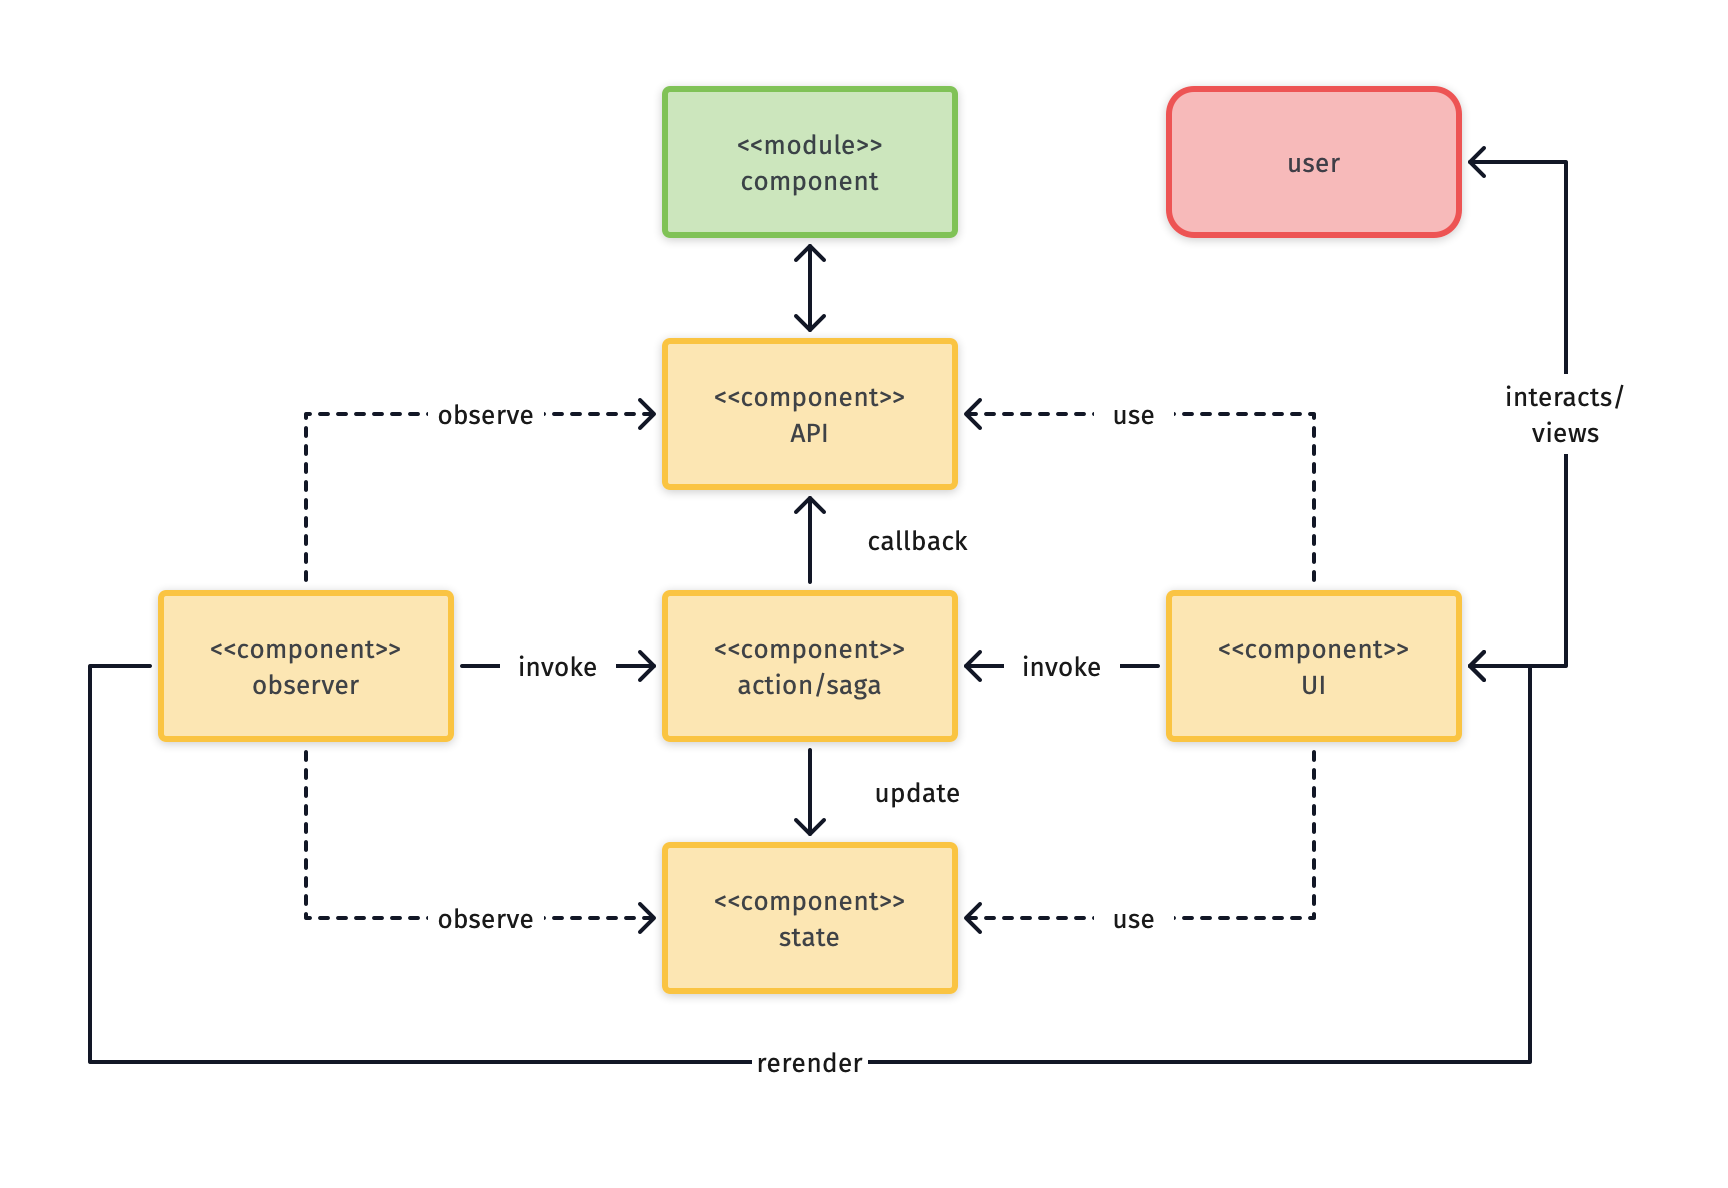
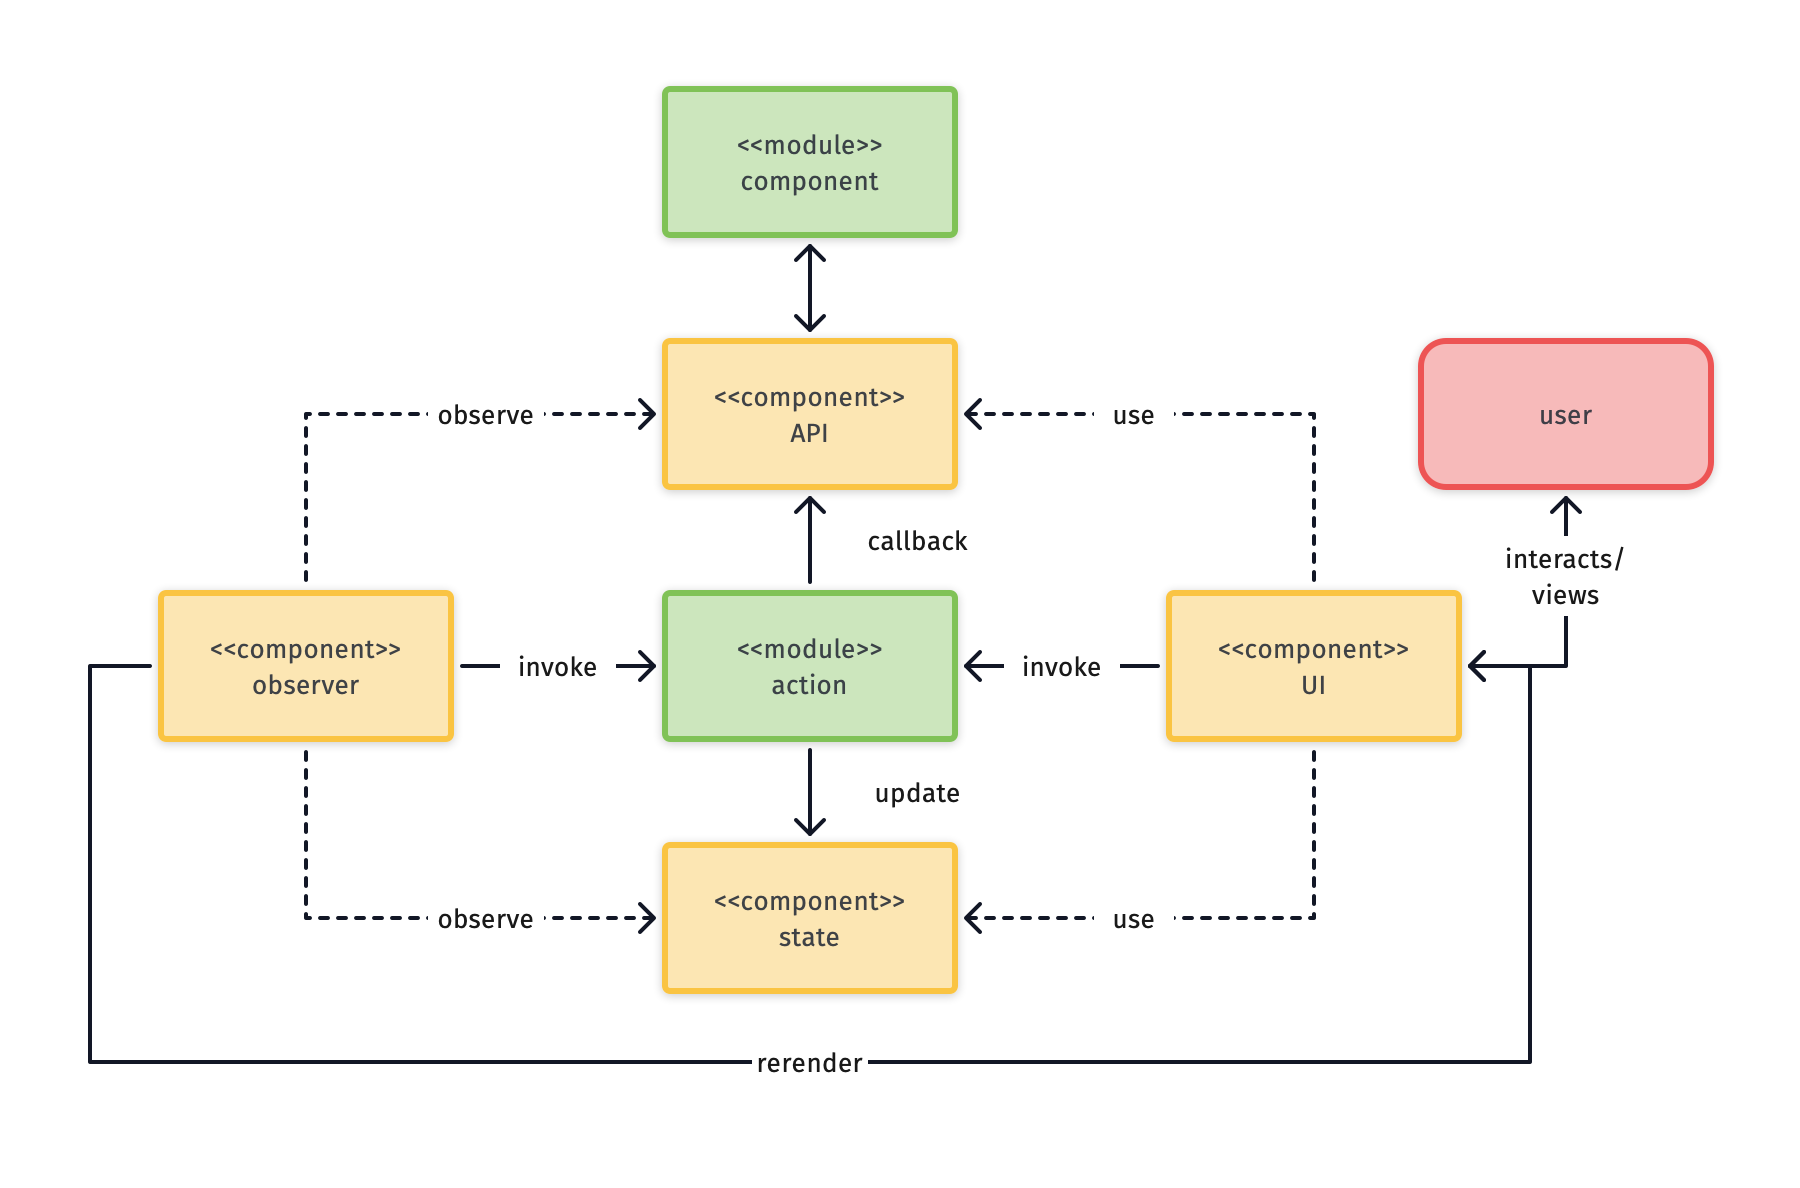
module architecture'

diff --git a/README.md b/README.md
@@ -1,17 +1,20 @@
 # Front-end reference architecture
 
-**version**: 0.3.0 | **Author(s)**: Kevin Pennekamp | front-end architect | [kevtiq.dev](https://kevtiq.dev) | <hello@kevtiq.dev>
+##### _version 0.4.0_
+
+**Author(s)**: Kevin Pennekamp | front-end architect | [kevtiq.dev](https://kevtiq.dev) | <hello@kevtiq.dev>
 
 This document describes a reactive front-end reference architecture for digital enterprises. It offers a framework-agnostic architectural best practices focused on the application behind the user interface.
 
 ## Introduction
 
-The goal of this architecture is to enable front-end engineers to create large scale applications for enterprises. These applications are characterized by large code-bases, long development time and many external connections. But most importantly, many users. To achieve control over the business outcomes (adaptability, predictability, quality and innovation) of the application, an [antifragile](https://www.sciencedirect.com/science/article/pii/S1877050916302290) architecture is required, with five key principles:
+The goal of this architecture is to enable front-end engineers to create large scale applications for enterprises. These applications are characterized by large code-bases, long development time and many external connections. But most importantly, many users. To achieve control over the business outcomes (adaptability, predictability, quality and innovation) of the application, an [antifragile](https://www.sciencedirect.com/science/article/pii/S1877050916302290) architecture is required, with six key principles:
 
 - **Consistency** in user experience, but also for the engineers working on the application.
 - **Resilience**, to ensure a stable user experience, by applying safe-guards in the heart of the application.
+- The architecture should enable **agility** for developers implement new and changed features, by focusing on reusable UI components.
 - Update user interfaces **reactively** based on interactions and changes in the state.
-- **Scalability**, by creating reusable components to deal with new features, external sources and heavy background tasks.
+- **Scalability**, by creating multi purpose elements to deal with new features, external sources and heavy background tasks.
 - **Maintainability** forced combining the scalability and consistency principles with concepts like [separation of concerns](https://en.wikipedia.org/wiki/Separation_of_concerns), and modularity in the user interface.
 
 The architecture goes three levels deeps. The diagrams in the remainder of this document visualize these levels and how they interact with other levels. The meaning of the different types of blocks in these diagrams are specified in the legend, below.
@@ -67,7 +70,7 @@ The API gateway enables the application to connect to multiple external sources 
 
 Each request, regardless of the related external source, goes through the mediator. The mediator sends each request though three *elements* before it hits the API client:
 
-- The gateway **cache** is a proxy that stores all responses for various request definitions, for a certain period of time ('state-while-revalidate' pattern).
+- The gateway **cache** is a proxy that stores all responses for various request definitions, for a certain period of time ('state-while-revalidate' pattern). The mediator acts as the *data access layer* of the cache, similar as in the application store.
 - A [**circuit breaker**](https://en.wikipedia.org/wiki/Circuit_breaker_design_pattern) maintains the state of the external source. If a server error is received, outgoing requests are bounced to prevent reoccurring failure.
 - Each request is enhanced or aborted by a chain of **middleware** (e.g. the refreshing of authentication information). Each middleware in the chain has access to the application store and it can subscribe to store events via the pub/sub.
 
@@ -81,13 +84,30 @@ To ensure resilience, each request should follow the same [statechart](https://s
 
 ## Modules
 
-Domain driven development
+To facilitate [domain driven development](https://martinfowler.com/bliki/BoundedContext.html) around business context, loosely coupled modules are used. A module groups business-related logic, state and UI components. There are three different types of modules identified in this reference architecture. Regardless of their types, modules can be used in a similar way as components, i.e. they can be nested.s
+
+- A **gateway** module functions as a wrapper around other modules, based on routing. It provides logic and state towards the nested modules (e.g. the main application can be seen as a gateway module). 
+- Many applications have multiple pages related to each other. **Section** modules combine these pages and their logic into a module (e.g. CRUD pages for user management or authentication page). 
+- Sometimes only a single component, or a collection of components are required throughout the application. These are **block** modules (e.g. shopping cart). 
+
+> **NOTE**: these module types are not exclusive. a _gateway_ can also be a _section_, and a _section_ can also be a *block*.
 
 ### Module architecture
 
+The module architecture is inspired by the [flux pattern](https://facebook.github.io/flux/docs/in-depth-overview/). It includes several *blocks*, as visualized below. Each module has **components** and **actions**. They represent the view and the logic of a (business-related) module. Both have the ability to interact with the application core. Components can read from the core, while actions can invoke events in the core and await their responses.  
+
 ![](images/architecture-module.png)
 
-> Types of modules
+Besides the components and actions, a module can have a store. It acts similarly to the application store, but is dedicated to the module. Not every module requires a store. The store in a module is often used for modeling business-logic, and have the UI correspond to that. If this is the case, it is recommended that it is shaped like a [state-machine](https://statecharts.github.io/what-is-a-state-machine.html) or [statechart](https://statecharts.github.io/what-is-a-statechart.html). 
+
+> **NOTE**: the store can be implemented in a similar way as the application store, i.e. a data access layer, or features from a framework are used (e.g. React Context) 
+
+there are many different ways to implement the module store. One could create a wrapper component (e.g. React Context) and store the state there. Another implementation could be similar to the application store, including an access layer. 
+
+Components and actions are requirements for all types of modules. However, when working on a gateway or section module, more blocks are required. 
+
+- The **routing** is required when the module is a gateway or section. It determines which **page** or module is shown to the user.
+- **Pages** are, in effect, components that are associated with a specific route. It is used in a section module. 
 
 ### User interface components
 User interface components, or UI components, are the most important parts of the application, and the place you will spend the most time in. It is where the user actually sees and interacts with the application. It consists of five different elements that interact with each other. 
@@ -96,10 +116,9 @@ User interface components, or UI components, are the most important parts of the
 
 The API is how a component interacts with its parent, another UI component. The parent component can provide values, configuration and callbacks through the API. The values and configuration are, combined with the component state, used to render the UI. 
 
-The UI is the part the user sees and interacts with. On interaction, an action is invoked. This action can be defined in the component (single purpose) or in the module (multi purpose). The action can update the component state or invoke a callback received through the API. 
+A user interacts with the UI. Based on the interaction, an action is invoked. Actions that are single purpose (only used by this component) are defined in the component. But in most cases, actions can and are shared between components. In this case the actions are defined in the module. The action can update the component state or invoke a callback received through the API.
+
+> **NOTE**: the observer described below is often handled by the internals of UI frameworks like React or Vue
 
 A component also has an observer. The observer listens to the values from the API and the state for changes. When a change happens, it invokes a rerender of the UI, and optionally invokes an action. 
 
-> **NOTE**: the observer of a component is often handled by a framework like React or Vue
-
-## CSS & user interface styling

diff --git a/CHANGELOG.md b/CHANGELOG.md
@@ -1,5 +1,10 @@
 # CHANGE LOG
 
+## Version 0.4.0
+
+- Added module architecture & domain driven design example
+- Added the link between the data access layer of the application store and the mediator in the gateway
+
 ## Version 0.3.0
 
 - Added the request statechart, including explanation, in the API gateway section;
